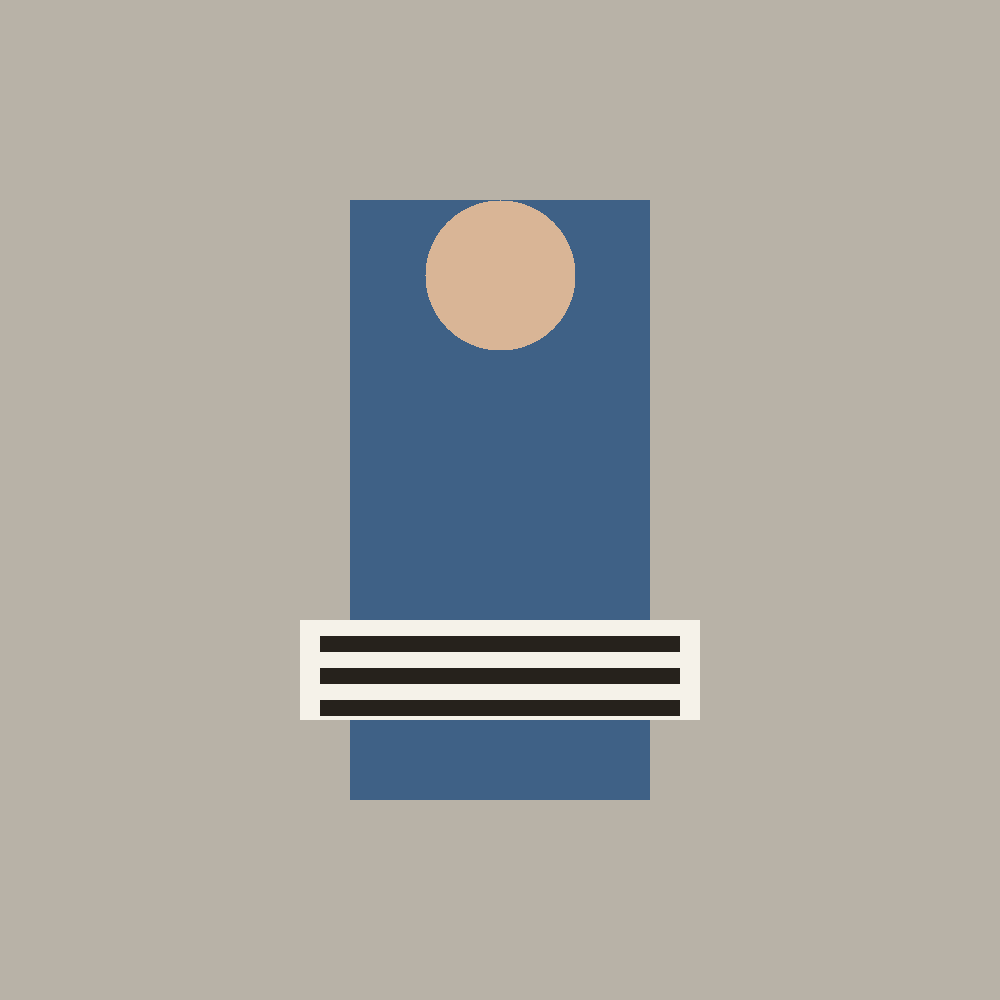
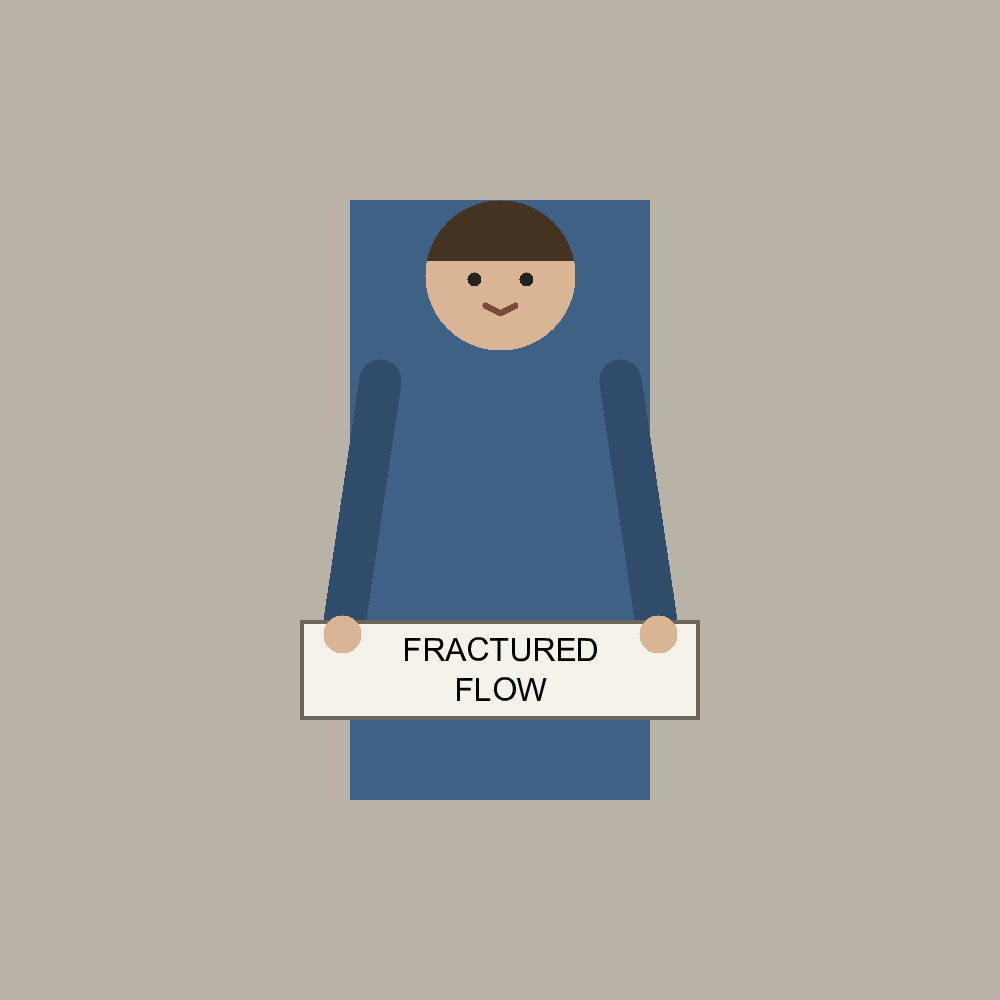
Seed media: real glyphs for the ST-P1 sign and ST-P8 letter
ST-P1: the sign reads FRACTURED FLOW as actual glyphs (Open Sans 32,
via jimp print) and the figure is drawn as a recognisable person
holding it — hair and face, sleeved arms, hands gripping the sign's
top corners. ST-P8: the letter carries a readable invented name and
address (Ms. Robin Sample, 48 Invented Hollow Rd, Faketown) as real
glyphs, with abstract body lines below.

Sidecar geometry is byte-unchanged for every take and ST-P2/ST-P4
render byte-identically, so all measured verdicts are untouched.
Live re-check: ST-P1 text and firstImpression now pass; ST-P8's
privacy warning now fires from the model's own reading.

Changed region(s): [[0.279, 0.341, 0.713, 0.744], [0.434, 0.186, 0.589, 0.31]]

diff --git a/tools/make-seed-images.js b/tools/make-seed-images.js
@@ -12,10 +12,23 @@
 // identical either way, and every verdict names its source.
 //
 // Run: node tools/make-seed-images.js   (writes server/seed-media/)
+//
+// Two takes outgrew pure abstraction, because the semantic pipeline judges
+// pixels, not specifications: ST-P1's sign now carries its words as real
+// glyphs and its figure is drawn as a recognisable person holding the sign,
+// and ST-P8's letter carries a readable (invented) name and address. The
+// sidecar geometry — the boxes every measured verdict comes from — is
+// unchanged for every take, and ST-P2/ST-P4 still render exactly as before.
 
 const fs = require("fs");
 const path = require("path");
-const { Jimp } = require("jimp");
+const { Jimp, loadFont, measureText } = require("jimp");
+
+const PRINT_PKG = path.dirname(require.resolve("@jimp/plugin-print/package.json"));
+const FONT_FILES = {
+  sign: path.join(PRINT_PKG, "fonts", "open-sans", "open-sans-32-black", "open-sans-32-black.fnt"),
+  small: path.join(PRINT_PKG, "fonts", "open-sans", "open-sans-16-black", "open-sans-16-black.fnt"),
+};
 
 const OUT = path.join(__dirname, "..", "server", "seed-media");
 const W = 1000;
@@ -30,6 +43,10 @@ const COL = {
   ink: 0x26221cff,
   letter: 0xfbfaf5ff,
   letterLine: 0x9a958aff,
+  sleeve: 0x2f4c6bff,
+  hair: 0x453322ff,
+  mouth: 0x7a4a3aff,
+  signEdge: 0x6b665aff,
 };
 
 function fillRect(img, box, color) {
@@ -66,12 +83,64 @@ function drawSign(img, box, lines = 3) {
   }
 }
 
+function drawThickLine(img, x0, y0, x1, y1, r, color) {
+  const steps = Math.max(Math.abs(x1 - x0), Math.abs(y1 - y0), 1);
+  for (let i = 0; i <= steps; i++) {
+    const x = Math.round(x0 + ((x1 - x0) * i) / steps);
+    const y = Math.round(y0 + ((y1 - y0) * i) / steps);
+    fillCircle(img, x, y, r, color);
+  }
+}
+
+function printCentered(img, font, cx, y, text) {
+  const w = measureText(font, text);
+  img.print({ font, x: Math.round(cx - w / 2), y, text });
+}
+
+// ST-P1's figure: the same subject/sign boxes as the abstract composition,
+// drawn as a person a viewer — or a vision model — can recognise: a head
+// with hair and a face, sleeved arms running down to the sign, and hands
+// gripping the sign's top corners. The sign carries its words as real
+// glyphs. Pixel dressing only; the sidecar geometry is untouched.
+function drawPersonHoldingSign(img, gt, font) {
+  const box = gt.subject;
+  const sign = gt.sign;
+  fillRect(img, box, COL.torso);
+  const cx = Math.floor((box.x0 + box.x1) / 2);
+  const headR = Math.floor((box.x1 - box.x0) / 4);
+  const cy = box.y0 + headR;
+  // Arms (sleeves) run from the shoulders down to the sign's top corners.
+  drawThickLine(img, box.x0 + 30, box.y0 + 180, sign.x0 + 42, sign.y0 + 16, 21, COL.sleeve);
+  drawThickLine(img, box.x1 - 30, box.y0 + 180, sign.x1 - 42, sign.y0 + 16, 21, COL.sleeve);
+  // Head: skin disc, hair across the top, two eyes, a smile.
+  fillCircle(img, cx, cy, headR, COL.head);
+  for (let y = cy - headR; y < cy - 14; y++) {
+    for (let x = cx - headR; x < cx + headR; x++) {
+      if ((x - cx) ** 2 + (y - cy) ** 2 <= headR * headR) img.setPixelColor(COL.hair, x, y);
+    }
+  }
+  fillCircle(img, cx - 26, cy + 4, 7, COL.ink);
+  fillCircle(img, cx + 26, cy + 4, 7, COL.ink);
+  drawThickLine(img, cx - 15, cy + 30, cx, cy + 38, 3, COL.mouth);
+  drawThickLine(img, cx, cy + 38, cx + 15, cy + 30, 3, COL.mouth);
+  // The sign: board with an edge, hands gripping its top corners, words.
+  const clipped = { x0: sign.x0, y0: sign.y0, x1: Math.min(sign.x1, W), y1: Math.min(sign.y1, H) };
+  fillRect(img, clipped, COL.sign);
+  fillRect(img, { x0: clipped.x0, y0: clipped.y0, x1: clipped.x1, y1: clipped.y0 + 4 }, COL.signEdge);
+  fillRect(img, { x0: clipped.x0, y0: clipped.y1 - 4, x1: clipped.x1, y1: clipped.y1 }, COL.signEdge);
+  fillRect(img, { x0: clipped.x0, y0: clipped.y0, x1: clipped.x0 + 4, y1: clipped.y1 }, COL.signEdge);
+  fillRect(img, { x0: clipped.x1 - 4, y0: clipped.y0, x1: clipped.x1, y1: clipped.y1 }, COL.signEdge);
+  fillCircle(img, sign.x0 + 42, sign.y0 + 14, 19, COL.head);
+  fillCircle(img, sign.x1 - 42, sign.y0 + 14, 19, COL.head);
+  printCentered(img, font, cx, sign.y0 + 12, "FRACTURED");
+  printCentered(img, font, cx, sign.y0 + 52, "FLOW");
+}
+
 const TAKES = [
   {
     id: "ST-P1",
-    draw(img) {
-      drawSubject(img, this.gt.subject);
-      drawSign(img, this.gt.sign);
+    draw(img, fonts) {
+      drawPersonHoldingSign(img, this.gt, fonts.sign);
     },
     gt: { subject: { x0: 350, y0: 200, x1: 650, y1: 800 }, sign: { x0: 300, y0: 620, x1: 700, y1: 720 } },
   },
@@ -92,13 +161,26 @@ const TAKES = [
   },
   {
     id: "ST-P8",
-    draw(img) {
+    draw(img, fonts) {
       // Desk band along the bottom, subject behind it, letter on the desk.
       fillRect(img, { x0: 0, y0: 780, x1: W, y1: H }, COL.desk);
       drawSubject(img, this.gt.subject);
       fillRect(img, this.gt.privateItem, COL.letter);
-      for (let i = 0; i < 5; i++) {
-        const y0 = this.gt.privateItem.y0 + 18 + i * 26;
+      // The letter carries a readable name and address as real glyphs —
+      // invented, nobody's data — because that readability is exactly what
+      // the privacy warning exists to catch. The lines below the address
+      // stay abstract, as body text.
+      const address = ["Ms. Robin Sample", "48 Invented Hollow Rd", "Faketown, OH 44000"];
+      address.forEach((line, i) => {
+        img.print({
+          font: fonts.small,
+          x: this.gt.privateItem.x0 + 14,
+          y: this.gt.privateItem.y0 + 12 + i * 21,
+          text: line,
+        });
+      });
+      for (let i = 0; i < 2; i++) {
+        const y0 = this.gt.privateItem.y0 + 84 + i * 24;
         fillRect(
           img,
           { x0: this.gt.privateItem.x0 + 14, y0, x1: this.gt.privateItem.x1 - 14, y1: y0 + 6 },
@@ -116,9 +198,13 @@ const TAKES = [
 
 (async () => {
   fs.mkdirSync(OUT, { recursive: true });
+  const fonts = {
+    sign: await loadFont(FONT_FILES.sign),
+    small: await loadFont(FONT_FILES.small),
+  };
   for (const take of TAKES) {
     const img = new Jimp({ width: W, height: H, color: COL.bg });
-    take.draw(img);
+    take.draw(img, fonts);
     const pngPath = path.join(OUT, `${take.id}.png`);
     await img.write(pngPath);
     fs.writeFileSync(path.join(OUT, `${take.id}.json`), JSON.stringify(take.gt, null, 2));
